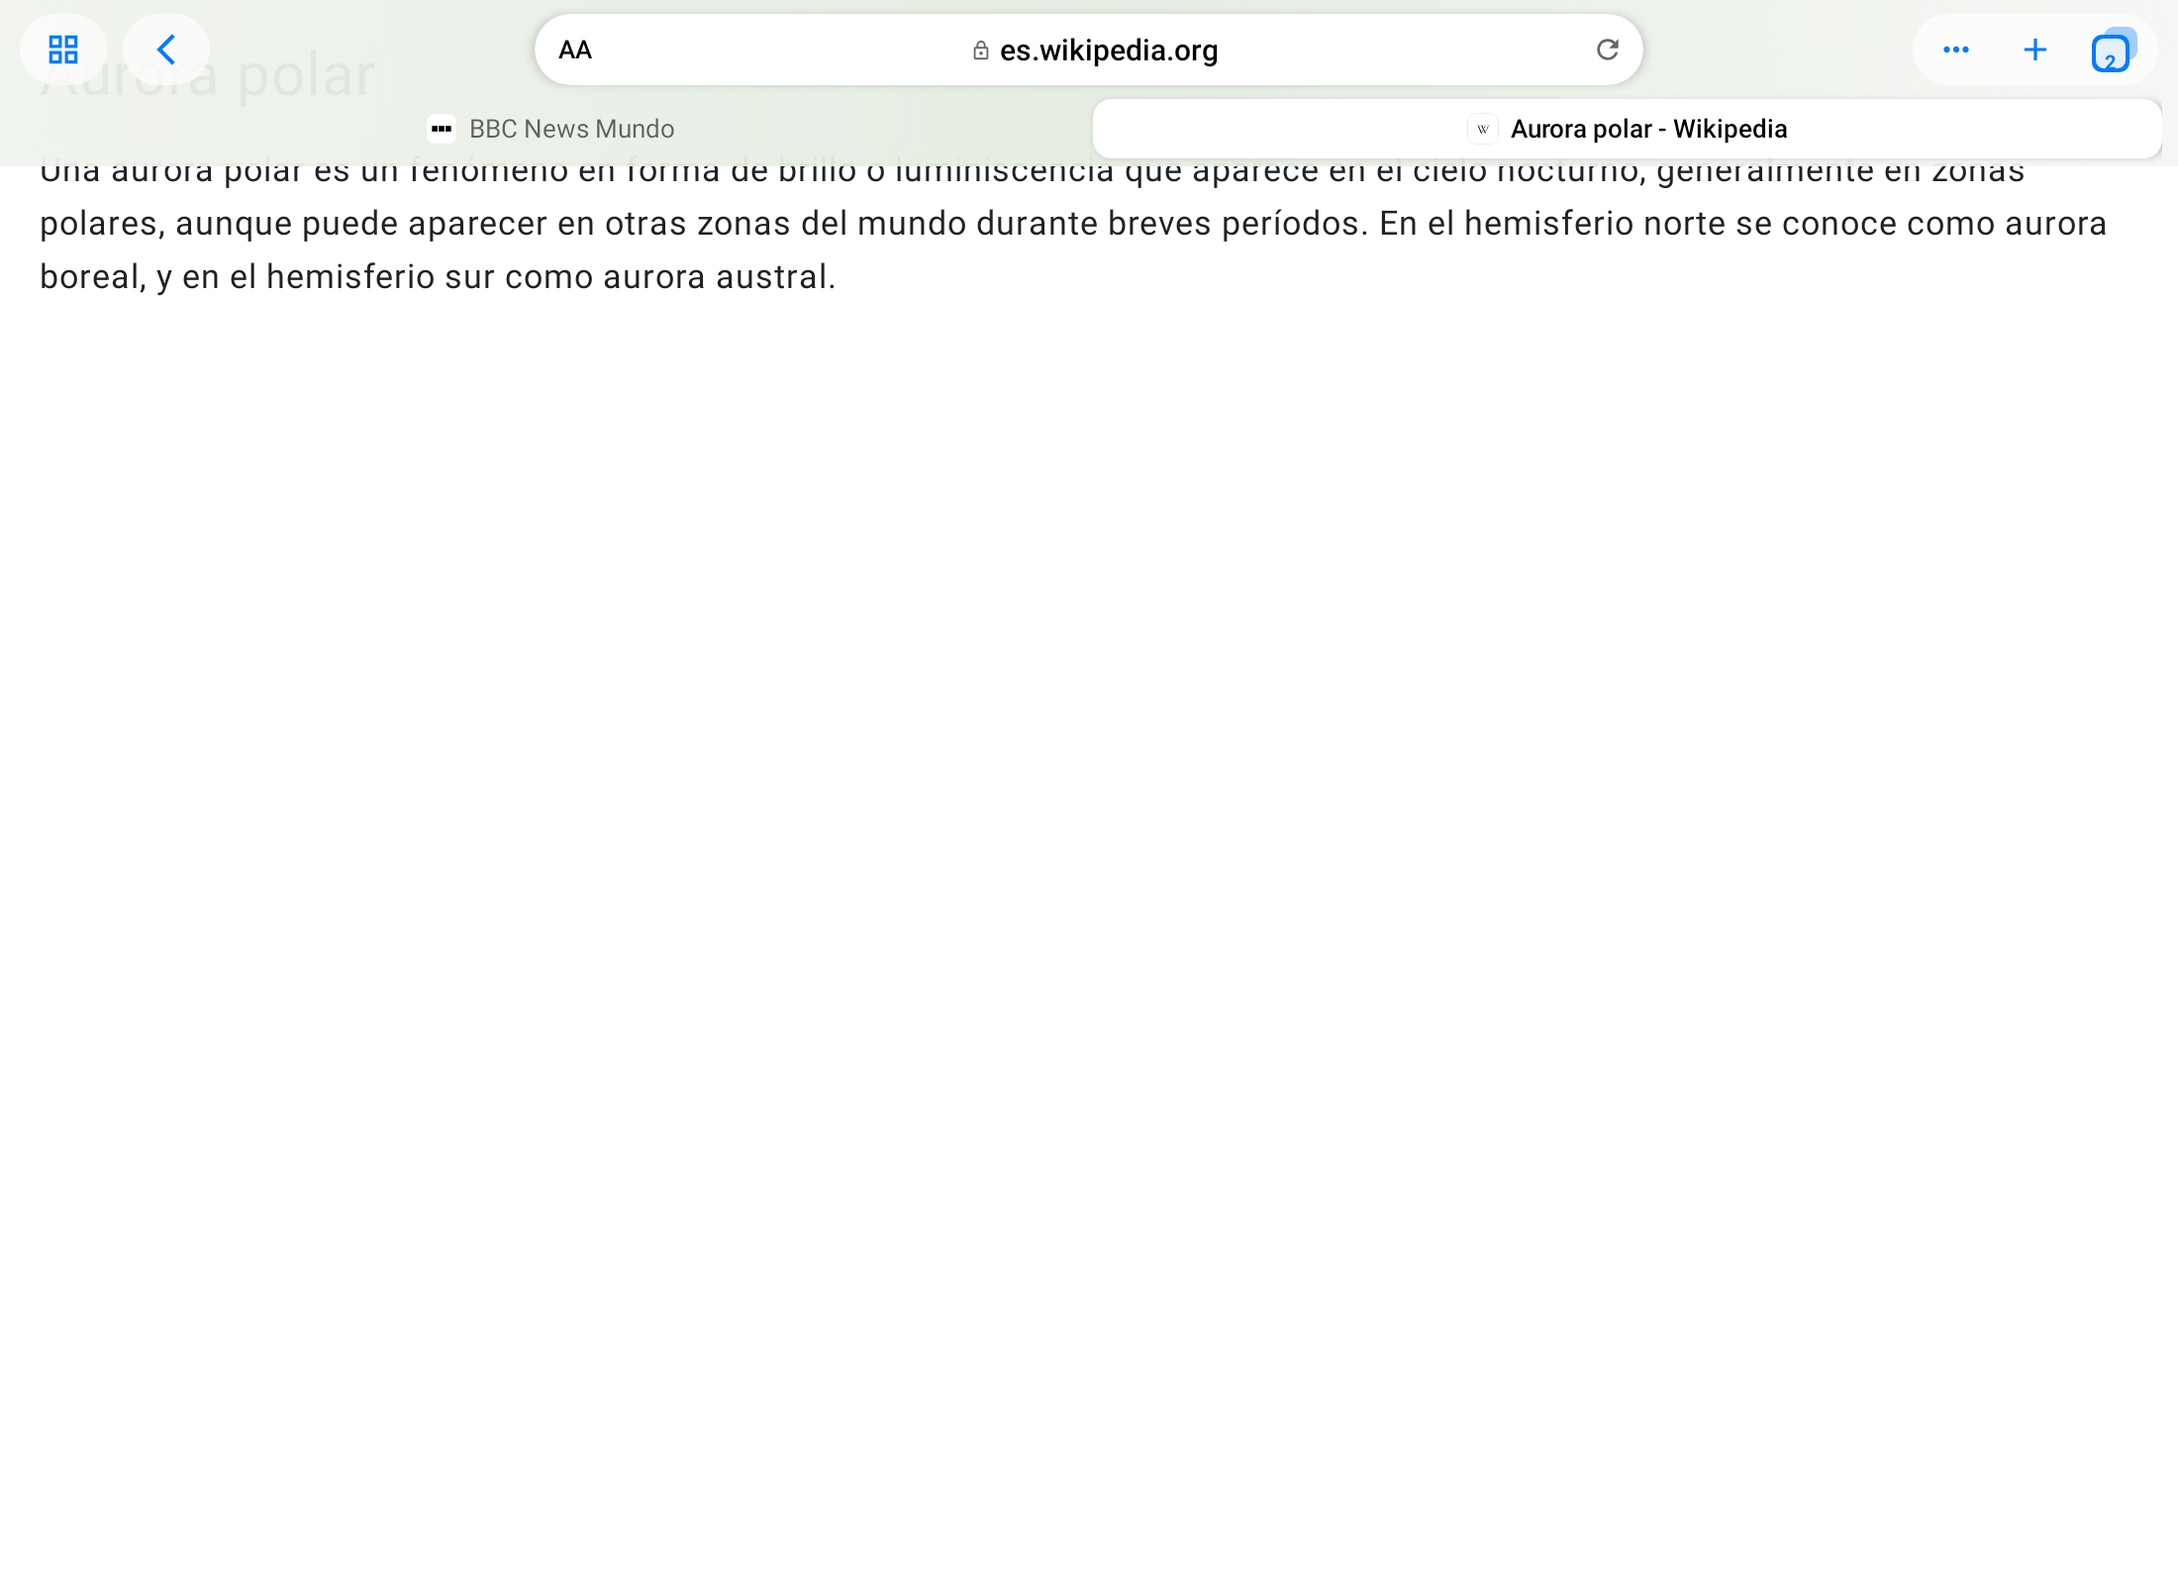
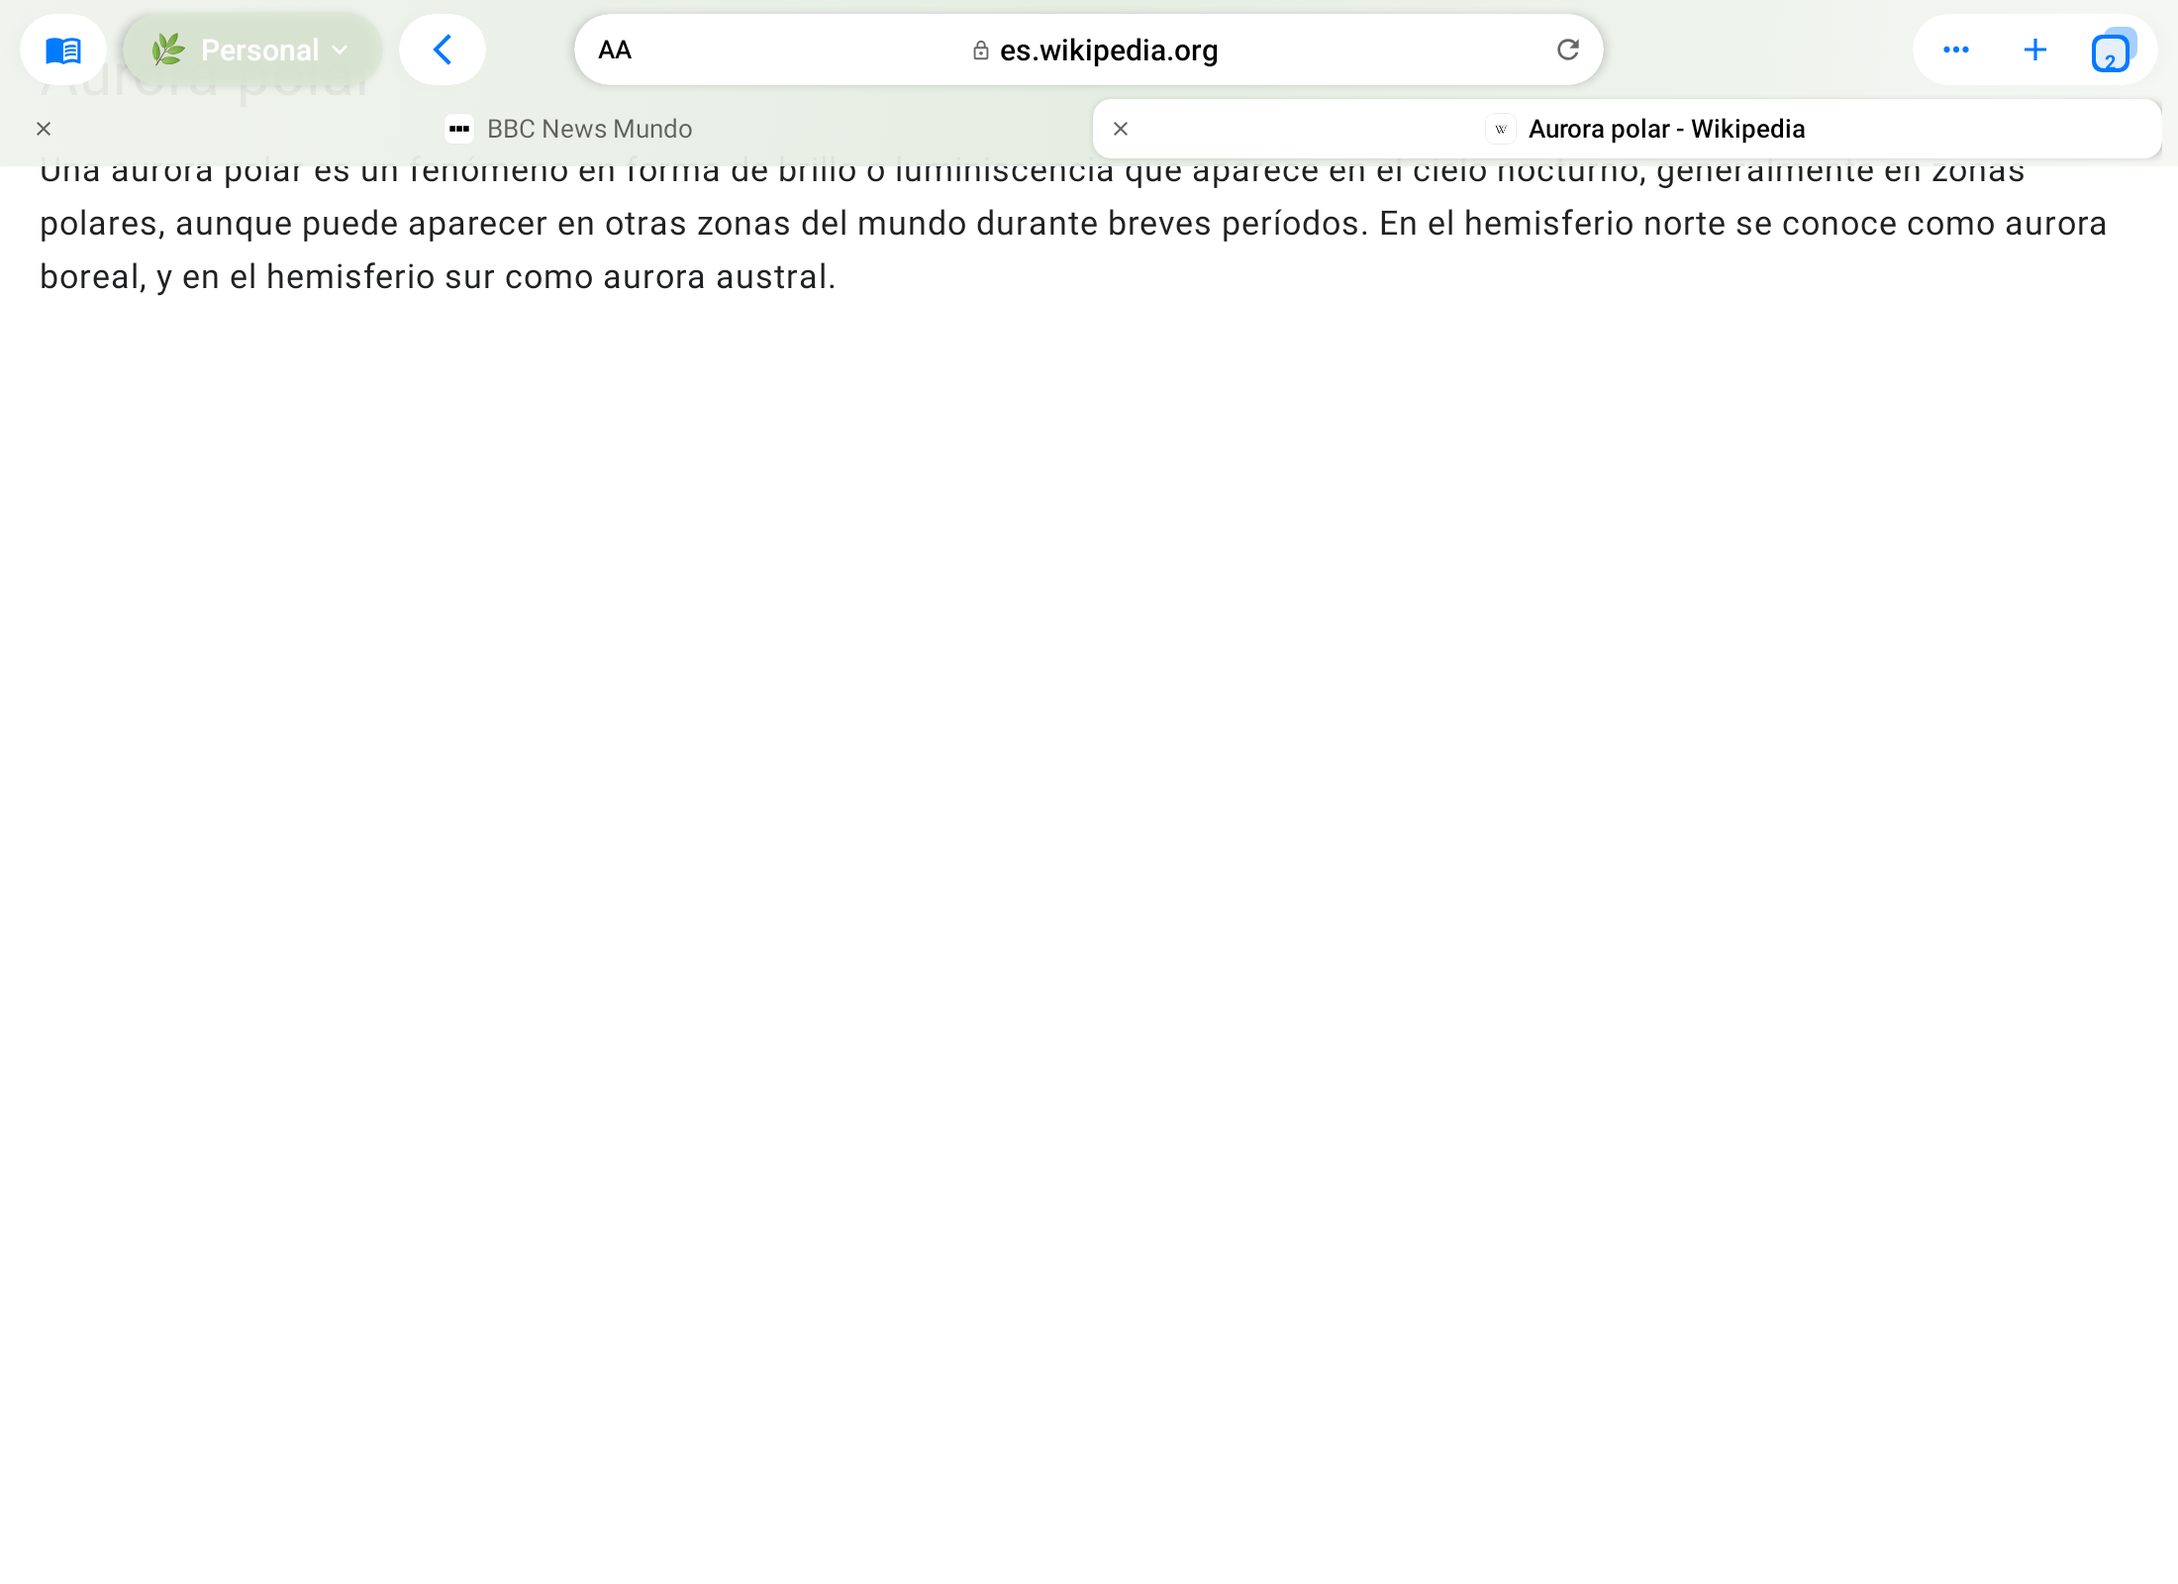
Android: barra de tableta con píldora de espacio como Safari, y pestañas que se cierran, mueven y agrupan
- Fila de arriba como en Safari con perfiles: círculo de la barra lateral (favoritos e historial), la píldora del espacio con su color, ícono, nombre y ⌄ (el "perfil" de Safari), y la cápsula de atrás y adelante. Las cápsulas son blancas con una sombra suave.
- Fila de pestañas:
  - Cada pestaña tiene una ✕ a la izquierda para cerrarla.
  - Mantener y arrastrar mueve la pestaña.
  - Soltarla encima de otra crea un grupo con esa pestaña, o la añade a su grupo si ya tiene uno.
  - Las pestañas que están en un grupo llevan una raya de color.
- La vista de pestañas (tarjetas, compacta y lista) ya permitía cerrar, reordenar y agrupar arrastrando.

Claude-Session: https://claude.ai/code/session_01NYtWFK9ernQgkQbtZWdHMY

Changed region(s): [[0.0309, 0.0, 0.1855, 0.0625], [0.68, 0.0, 0.8345, 0.0938], [0.2164, 0.0, 0.3091, 0.0938]]

diff --git a/android/app/src/main/java/app/kaze/browser/ui/screens/BrowserChrome.kt b/android/app/src/main/java/app/kaze/browser/ui/screens/BrowserChrome.kt
@@ -4,6 +4,12 @@
 
 package app.kaze.browser.ui.screens
 
+import app.kaze.browser.data.TabKind
+import androidx.compose.ui.graphics.graphicsLayer
+import androidx.compose.runtime.mutableFloatStateOf
+import androidx.compose.ui.zIndex
+import androidx.compose.ui.graphics.luminance
+import androidx.compose.foundation.gestures.detectDragGesturesAfterLongPress
 import androidx.compose.material.icons.outlined.GridView
 import androidx.compose.foundation.layout.fillMaxHeight
 import androidx.compose.animation.core.animateDpAsState
@@ -163,6 +169,8 @@ fun SafariBottomBar(
     tablet: Boolean = false,
     /** Diseño "Arriba": aquí solo van los botones (la dirección va en SafariTopAddress). */
     split: Boolean = false,
+    /** Cerrar una pestaña desde la fila de pestañas de la tableta. */
+    onCloseTab: (Tab) -> Unit = {},
 ) {
     if (split) {
         AnimatedVisibility(
@@ -173,7 +181,7 @@ fun SafariBottomBar(
         return
     }
     if (tablet) {
-        TabletBar(tab, space, tabCount, a, tabs, onSelectTab, modifier)
+        TabletBar(tab, space, tabCount, a, tabs, onSelectTab, onCloseTab, modifier)
         return
     }
     if (compact) {
@@ -871,7 +879,7 @@ private fun CompactMenu(tab: Tab, tabCount: Int, a: ChromeActions, onDismiss: ()
  * pestañas de igual ancho (la activa resaltada). Con muchas pestañas, la fila se desliza.
  */
 @Composable
-private fun TabletBar(tab: Tab, space: Space?, tabCount: Int, a: ChromeActions, tabs: List<Tab>, onSelectTab: (Tab) -> Unit, modifier: Modifier) {
+private fun TabletBar(tab: Tab, space: Space?, tabCount: Int, a: ChromeActions, tabs: List<Tab>, onSelectTab: (Tab) -> Unit, onCloseTab: (Tab) -> Unit, modifier: Modifier) {
     val k = LocalKaze.current
     val list = if (tabs.any { it.id == tab.id }) tabs else listOf(tab)
     Column(
@@ -880,7 +888,10 @@ private fun TabletBar(tab: Tab, space: Space?, tabCount: Int, a: ChromeActions, 
     ) {
         androidx.compose.foundation.layout.BoxWithConstraints(Modifier.fillMaxWidth().height(50.dp).padding(horizontal = 10.dp)) {
             Row(Modifier.align(Alignment.CenterStart), horizontalArrangement = Arrangement.spacedBy(8.dp), verticalAlignment = Alignment.CenterVertically) {
-                Capsule { BarIcon(Icons.Outlined.GridView, "Espacios y Essentials", onClick = a.onSpaces) }
+                // Como Safari: círculo de la barra lateral (favoritos, lectura e historial) y la píldora
+                // del perfil, que aquí es el espacio de Zen, con su color, ícono y nombre.
+                Capsule { BarIcon(Icons.AutoMirrored.Outlined.MenuBook, "Favoritos, lista de lectura e historial", onClick = a.onLibrary) }
+                SpacePill(space, a.onSpaces)
                 AnimatedVisibility(
                     tab.canGoBack || tab.canGoForward,
                     enter = fadeIn(tween(160)) + expandHorizontally(spring(0.85f, 500f)),
@@ -894,7 +905,7 @@ private fun TabletBar(tab: Tab, space: Space?, tabCount: Int, a: ChromeActions, 
                 }
             }
             // La dirección, centrada (deja sitio a las cápsulas de los lados).
-            TabletAddress(tab, a, Modifier.align(Alignment.Center).width(minOf(560.dp, maxWidth - 300.dp)))
+            TabletAddress(tab, a, Modifier.align(Alignment.Center).width(minOf(520.dp, maxWidth - 420.dp).coerceAtLeast(200.dp)))
             Row(Modifier.align(Alignment.CenterEnd)) {
                 Capsule {
                     BarIcon(Icons.Outlined.MoreHoriz, "Menú", onClick = a.onShare)
@@ -912,10 +923,46 @@ private fun TabletBar(tab: Tab, space: Space?, tabCount: Int, a: ChromeActions, 
                     val i = list.indexOfFirst { it.id == tab.id }
                     if (i >= 0) state.animateScrollToItem(i)
                 }
+                val store = LocalApp.current.store
+                val density = androidx.compose.ui.platform.LocalDensity.current
+                val haptic = androidx.compose.ui.platform.LocalHapticFeedback.current
+                val step = with(density) { (w + 4.dp).toPx() }
+                var dragId by remember { mutableStateOf<String?>(null) }
+                var dragX by remember { mutableFloatStateOf(0f) }
                 androidx.compose.foundation.lazy.LazyRow(state = state, horizontalArrangement = Arrangement.spacedBy(4.dp)) {
                     items(list.size, key = { list[it].id }) { i ->
                         val t = list[i]
-                        TabChip(t, t.id == tab.id, Modifier.animateItem().width(w)) { if (t.id != tab.id) onSelectTab(t) }
+                        val dragging = dragId == t.id
+                        // Mantener y arrastrar: soltar entre pestañas la mueve; soltar encima de otra crea un grupo
+                        // con ella (o la añade a su grupo), como en la vista de pestañas.
+                        val drag = Modifier.pointerInput(t.id, list.size) {
+                            detectDragGesturesAfterLongPress(
+                                onDragStart = { dragId = t.id; dragX = 0f; haptic.performHapticFeedback(androidx.compose.ui.hapticfeedback.HapticFeedbackType.LongPress) },
+                                onDragEnd = {
+                                    val slots = dragX / step
+                                    val target = list.getOrNull(i + kotlin.math.round(slots).toInt())
+                                    val nearCenter = abs(slots - kotlin.math.round(slots)) < 0.25f
+                                    if (target != null && target.id != t.id && t.kind == TabKind.NORMAL && target.kind == TabKind.NORMAL) {
+                                        if (nearCenter) {
+                                            val name = target.folder.ifEmpty { store.newFolderName(t.spaceId) }
+                                            store.setFolder(listOf(target, t), name)
+                                            haptic.performHapticFeedback(androidx.compose.ui.hapticfeedback.HapticFeedbackType.Confirm)
+                                        } else {
+                                            val dest = list.getOrNull(i + (if (slots > 0) kotlin.math.ceil(slots).toInt() else kotlin.math.floor(slots).toInt()))
+                                            if (dest != null && dest.id != t.id) store.moveBefore(t, dest)
+                                        }
+                                    }
+                                    dragId = null; dragX = 0f
+                                },
+                                onDragCancel = { dragId = null; dragX = 0f },
+                            ) { c, d -> c.consume(); dragX += d.x }
+                        }
+                        TabChip(
+                            t, t.id == tab.id,
+                            (if (dragging) Modifier.zIndex(1f).offset { IntOffset(dragX.roundToInt(), 0) }.graphicsLayer { scaleX = 1.04f; scaleY = 1.04f } else Modifier.animateItem())
+                                .width(w).then(drag),
+                            onClose = { onCloseTab(t) },
+                        ) { if (t.id != tab.id) onSelectTab(t) }
                     }
                 }
             }
@@ -928,7 +975,8 @@ private fun TabletBar(tab: Tab, space: Space?, tabCount: Int, a: ChromeActions, 
 private fun Capsule(content: @Composable androidx.compose.foundation.layout.RowScope.() -> Unit) {
     val k = LocalKaze.current
     Row(
-        Modifier.height(36.dp).clip(RoundedCornerShape(50)).background(k.card.copy(alpha = if (k.isDark) 0.55f else 0.7f)).padding(horizontal = 2.dp),
+        Modifier.height(36.dp).shadow(4.dp, RoundedCornerShape(50), ambientColor = Color.Black.copy(alpha = 0.10f), spotColor = Color.Black.copy(alpha = 0.10f))
+            .clip(RoundedCornerShape(50)).background(k.card).padding(horizontal = 2.dp),
         verticalAlignment = Alignment.CenterVertically,
         content = content,
     )
@@ -978,27 +1026,58 @@ private fun TabletAddress(tab: Tab, a: ChromeActions, modifier: Modifier) {
     }
 }
 
-/** Pestaña de la fila de tableta: ícono y título centrados; la activa es una tarjeta clara con sombra suave. */
+/**
+ * Pestaña de la fila de tableta: ícono y título centrados y una ✕ para cerrarla.
+ * La activa es una tarjeta clara con sombra suave; si está en un grupo, lleva una raya del color del grupo.
+ */
 @Composable
-private fun TabChip(t: Tab, selected: Boolean, modifier: Modifier, onClick: () -> Unit) {
+private fun TabChip(t: Tab, selected: Boolean, modifier: Modifier, onClose: () -> Unit, onClick: () -> Unit) {
     val k = LocalKaze.current
     val bg by androidx.compose.animation.animateColorAsState(if (selected) k.card else Color.Transparent, tween(180), label = "chip")
-    Row(
+    Box(
         modifier.fillMaxHeight()
             .then(if (selected) Modifier.shadow(2.dp, RoundedCornerShape(9.dp), ambientColor = Color.Black.copy(alpha = 0.1f)) else Modifier)
             .clip(RoundedCornerShape(9.dp)).background(bg).clickable(onClick = onClick)
-            .padding(horizontal = 10.dp)
             .semantics { contentDescription = t.displayTitle },
-        horizontalArrangement = Arrangement.Center,
+    ) {
+        Row(Modifier.fillMaxSize().padding(start = 28.dp, end = 10.dp), horizontalArrangement = Arrangement.Center, verticalAlignment = Alignment.CenterVertically) {
+            if (t.isStart) Icon(Icons.Outlined.Home, null, tint = k.ink55, modifier = Modifier.size(14.dp))
+            else FaviconTile(t.url, 16.dp, 11.dp)
+            Spacer(Modifier.width(6.dp))
+            Text(
+                if (t.isStart) "Inicio" else t.displayTitle.ifBlank { Urls.displayHost(t.url) },
+                style = KazeType.footnote.copy(fontWeight = if (selected) FontWeight.SemiBold else FontWeight.Normal),
+                color = if (selected) k.ink else k.ink55, maxLines = 1, overflow = TextOverflow.Ellipsis,
+            )
+        }
+        // ✕ a la izquierda, como Safari (tamaño táctil de 28 dp).
+        Box(
+            Modifier.align(Alignment.CenterStart).size(28.dp).clip(CircleShape).clickable(onClick = onClose)
+                .semantics { contentDescription = "Cerrar pestaña" },
+            contentAlignment = Alignment.Center,
+        ) { Icon(Icons.Outlined.Close, null, tint = k.ink55, modifier = Modifier.size(12.dp)) }
+        if (t.folder.isNotEmpty()) {
+            Box(Modifier.align(Alignment.BottomCenter).padding(bottom = 2.dp).width(18.dp).height(2.5.dp).clip(RoundedCornerShape(50)).background(k.accent))
+        }
+    }
+}
+
+/** Píldora del espacio (el "perfil" de Safari): color del espacio, su ícono, nombre y ⌄. */
+@Composable
+private fun SpacePill(space: Space?, onClick: () -> Unit) {
+    val k = LocalKaze.current
+    val c = space?.colors?.firstOrNull()?.let { Color(it) } ?: k.accent
+    // Texto oscuro sobre colores claros y blanco sobre oscuros (siempre legible).
+    val on = if (c.luminance() > 0.55f) Color(0xFF1D1D1F) else Color.White
+    Row(
+        Modifier.height(36.dp).shadow(3.dp, RoundedCornerShape(50), ambientColor = c.copy(alpha = 0.4f)).clip(RoundedCornerShape(50))
+            .background(c).tap(onClick).padding(horizontal = 14.dp)
+            .semantics { contentDescription = "Espacio ${space?.name.orEmpty()} (cambiar de espacio)" },
         verticalAlignment = Alignment.CenterVertically,
     ) {
-        if (t.isStart) Icon(Icons.Outlined.Home, null, tint = k.ink55, modifier = Modifier.size(14.dp))
-        else FaviconTile(t.url, 16.dp, 11.dp)
+        if (space != null) Text(space.emoji, fontSize = 15.sp)
         Spacer(Modifier.width(6.dp))
-        Text(
-            if (t.isStart) "Inicio" else t.displayTitle.ifBlank { Urls.displayHost(t.url) },
-            style = KazeType.footnote.copy(fontWeight = if (selected) FontWeight.SemiBold else FontWeight.Normal),
-            color = if (selected) k.ink else k.ink55, maxLines = 1, overflow = TextOverflow.Ellipsis,
-        )
+        Text(space?.name ?: "Espacios", style = KazeType.subhead.copy(fontWeight = FontWeight.SemiBold), color = on, maxLines = 1)
+        Icon(Icons.Outlined.KeyboardArrowDown, null, tint = on, modifier = Modifier.padding(start = 2.dp).size(16.dp))
     }
 }

diff --git a/android/app/src/main/java/app/kaze/browser/MainActivity.kt b/android/app/src/main/java/app/kaze/browser/MainActivity.kt
@@ -644,6 +644,7 @@ class MainActivity : ComponentActivity() {
                             compact = barCompact,
                             tablet = tabletBar,
                             split = barSplit,
+                            onCloseTab = ::closeTab,
                         )
                         if (barSplit) SafariTopAddress(
                             tab, store.spaceById(tab.spaceId), collapsed, actions,
